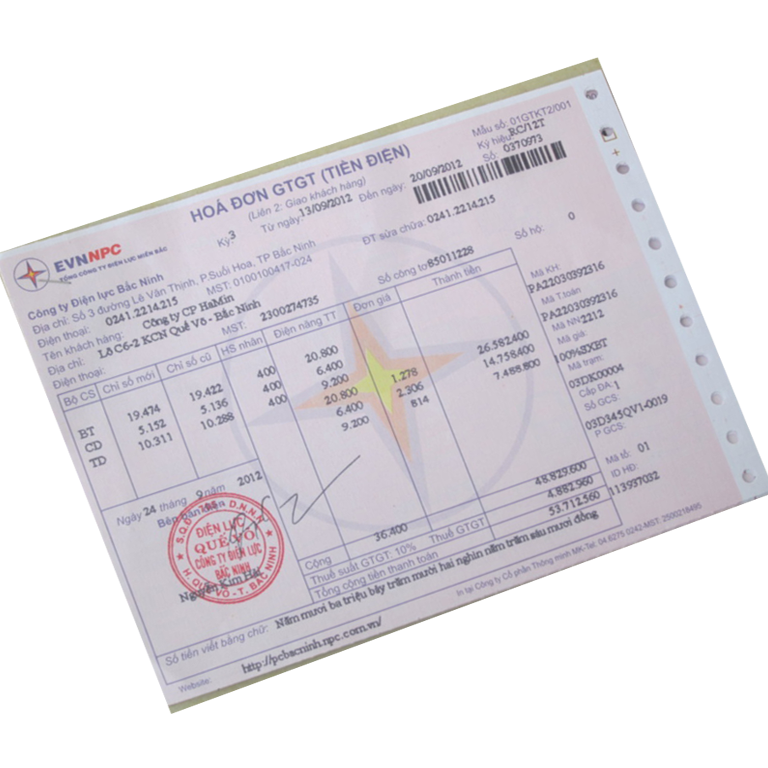
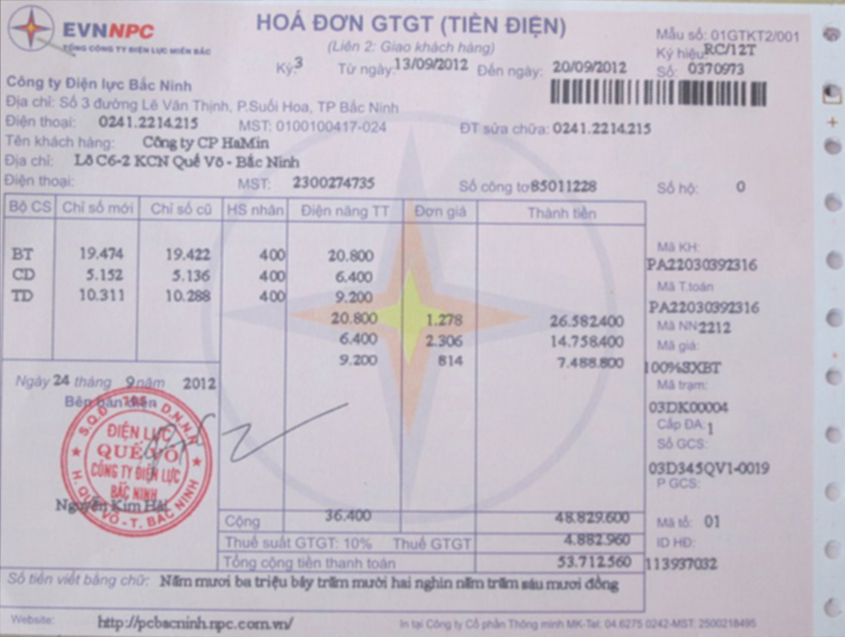
'16032020'

diff --git a/templates/view2.html b/templates/view2.html
@@ -1,8 +1,6 @@
 <!DOCTYPE html>
 <html>
 <head>
-  <meta http-equiv="Cache-control" content="no-cache">
-  <meta http-equiv="Expires" content="-1">
 </head>
 <title>Flask image2text</title>
 <body>
@@ -254,7 +252,7 @@ function showRectnamed(){
 
 function postRecognizeAllRectangles(){
   if (rectangles.length == 0){
-      alert('Select config file!')
+      alert('Chọn mẫu trước!')
   }
   else{
       document.getElementById("btn_recognition_all_rect").value = "Đang xử lý"
@@ -281,6 +279,42 @@ function postRecognizeAllRectangles(){
           else {console.log("server ocr error!")}
           }});
   }
+}
+
+function postAlignImage(cf_filename){
+  console.log(cf_filename)
+  $.ajax({
+    type: "POST",
+    url: "/post_align_" + cf_filename,
+    contentType: "application/json; charset=utf-8",
+    dataType: "json",
+    success:function (response) {
+        console.log('postAlignImage() successed!:',response)
+        if (response.success == true){
+          //console.log("server align successed!")
+          // console.log(response.rectnames)
+          // console.log(response.rectangles)
+          // console.log(response.scale_img)
+          rectangles = response.rectangles
+          rectnames = response.rectnames
+          scale_img = response.scale_img
+          //window.location.reload(true);
+          //console.log("sadsadsadsa {{ filename }}")
+          //window.location.href = "/post_align_" + cf_filename;
+          //document.getElementById("canvas").style.background = "url('{{ filename }}')";
+          draw()
+          //clearAllRectname()
+          //showConfig()
+          // addManyRectname()
+          // drawWithText(response.data)
+          // document.getElementById("btn_recognition_all_rect").value = "Nhận dạng"
+          // for (var n=0; n< rectangles.length; ++n){
+          //   document.getElementById("rect_text"+parseInt(n+1)).innerHTML = "<span style='color:gold; word-break: break-all;'> "+response.data[n] + " </span>"
+          //   }
+
+          }
+        else {console.log("server align error!")}
+        }});
 }
 
 function checkSelectImageFile(){
@@ -318,18 +352,15 @@ function showListConfigFiles(){
     var cf_img = document.createElement('a')
     cf_img.id = "cf_img"
     cf_img.innerHTML = "<img src='static/mau/"+list_config_files[i]+".png' height='62'>"
-    //cf_img.href = "selectconfigandalign_" + list_config_files[i]
-    //cf_img.style = "margin-bottom:17px;"
     
     var cf_name = document.createElement('h5')
     cf_name.innerHTML = list_config_files[i]
-    //cf_name.style = "position: absolute;"
     
     document.getElementById('cf_divcard'+i).appendChild(cf_img)
     document.getElementById('cf_divcard'+i).appendChild(cf_name)
 
     $("#cf_divcard"+i).hover(function(){
-      console.log(parseInt(String(this.id).slice(10,String(this.id).length+1)))
+      //console.log(parseInt(String(this.id).slice(10,String(this.id).length+1)))
       var index = parseInt(String(this.id).slice(10,String(this.id).length+1))
       $(this).css("background-color", "darkseagreen");
       },function(){
@@ -338,6 +369,8 @@ function showListConfigFiles(){
     $("#cf_divcard"+i).click(function(){
       var index = parseInt(String(this.id).slice(10,String(this.id).length+1))
       window.location.href = "selectconfigandalign_" + list_config_files[index]
+      //console.log(index)
+      //postAlignImage(list_config_files[index])
     });
   }
 }
@@ -397,7 +430,6 @@ function showListConfigFiles(){
         <h4>Bước 2: Chọn mẫu sau đó ấn "Ctrl + F5" để xem thay đổi</h4>
         <!-- <div class="h5" style="margin-bottom: 10px;">Chọn mẫu:</div> -->
         <div id="list_config" ></div>
-        <button class="btn_custom" onClick="javascript:setTimeout(function(){window.location.reload();});">OK</button>
       </div>
       <!-- <p><button class="btn_custom" onclick="window.location.href = '/preprocess_image';">Xử lý ảnh(Ctrl+F5)</button></p> -->
       <!-- <p><button id="show_config" onclick="javascript:showConfig()">Hiện khung</button></p> -->

diff --git a/flask_image2text.py b/flask_image2text.py
@@ -10,10 +10,10 @@ import numpy as np
 
 app = Flask(__name__)
 
-
 @app.route('/',methods=['GET'])
 def selectPageMode():
     return render_template('select_mode.html')
+
 @app.route('/index',methods=['GET'])
 def index():
     filename = ''
@@ -303,8 +303,37 @@ def selectConfigAndAlign(config_filename):
     image_confile_filename = 'static/mau/' + json_config_name.replace('.json','') + '.png'
 
     _ = alignFile(image_confile_filename, image_process_filename)
-
+    #print(a)
     return render_template('view2.html', filename = session['filename2'], list_config_files = session['list_config_files'], config_filename = session['config_filename2'], rectnames = rectnames, rectangles = rectangles, scale_img=scale_img)
+
+@app.route('/post_align_<string:config_filename>',methods=["POST","GET"])
+def postConfigAndAlign(config_filename):
+    if 'filename2' not in session:
+        return index2()
+    session['config_filename2'] = config_filename
+    config = []
+    rectnames = []
+    rectangles = []
+    scale_img = 0.0
+    with open('static/mau/' + config_filename + '.json') as f:
+        config = json.load(f)
+        scale_img = float(config['scale_img'])
+        for rect in config['rectangles']:
+            rectnames.append(rect['rectname'])
+            rectangles.append(rect['rectangle'])
+
+    image_process_filename = session['filename2']
+    json_config_name = session['config_filename2']
+    image_config_filename = 'static/mau/' + json_config_name.replace('.json','') + '.png'
+
+    a = alignFile(image_config_filename, image_process_filename)
+    session['filename2'] = a
+    #print(a)
+    resp = jsonify(success=True, rectnames=rectnames, rectangles=rectangles, scale_img=scale_img)
+    if request.method == "POST":
+        return resp
+    if request.method == "GET":
+        return render_template('view2.html', filename = session['filename2'], list_config_files = session['list_config_files'], config_filename = session['config_filename2'], rectnames = rectnames, rectangles = rectangles, scale_img=scale_img)
 
 def unsharp_mask(image, kernel_size=(5, 5), sigma=1.0, amount=1.0, threshold=0):
     """Return a sharpened version of the image, using an unsharp mask."""
@@ -380,5 +409,5 @@ def preprocessImage():
 if __name__ == '__main__':
     app.secret_key = 'dangvansam'
     #app.config['TEMPLATES_AUTO_RELOAD'] = True
-    #app.run(debug=True)
-    app.run(debug=True, host="192.168.2.26", port=4040)
+    app.run(debug=True)
+    #app.run(debug=True, host="192.168.2.26", port=4040)

diff --git a/preprocess_image.py b/preprocess_image.py
@@ -1,4 +1,3 @@
-from __future__ import print_function
 import cv2
 import numpy as np
  
@@ -47,43 +46,18 @@ def alignImages(im1, im2):
 
   # Use homography
   height, width, channels = im2.shape
-  try:
-    im1Reg = cv2.warpPerspective(im1, h, (width, height))
-  except:
-    print('No transform apply!!!')
-    im1Reg = im1
+
+  im1Reg = cv2.warpPerspective(im1, h, (width, height))
+
   return im1Reg, h
  
 def alignFile(filename1, filename2):
-  #print(filename2)
+  #print(filename1, filename2)
   imReference = cv2.imread(filename1, cv2.COLOR_BGR2RGB)
   im = cv2.imread(filename2, cv2.COLOR_BGR2RGB)
   imReg, h = alignImages(im, imReference)
+  #cv2.imshow("aaa",imReg)
+  #cv2.waitKey()
   outFilename = filename2#.replace('.png','_align.png')
   cv2.imwrite(outFilename, imReg)
   return outFilename
-
-# if __name__ == '__main__':
-   
-#   # Read reference image
-#   refFilename = "hoadon2/Hoadontiendien.jpg"
-#   print("Reading reference image : ", refFilename)
-#   imReference = cv2.imread(refFilename, cv2.IMREAD_COLOR)
- 
-#   # Read image to be aligned
-#   imFilename = "hoadon2/Hoadontiendien-a.jpg"
-#   print("Reading image to align : ", imFilename);  
-#   im = cv2.imread(imFilename, cv2.IMREAD_COLOR)
-   
-#   print("Aligning images ...")
-#   # Registered image will be resotred in imReg. 
-#   # The estimated homography will be stored in h. 
-#   imReg, h = alignImages(im, imReference)
-   
-#   # Write aligned image to disk. 
-#   outFilename = "hoadon2/align-a.jpg"
-#   print("Saving aligned image : ", outFilename); 
-#   cv2.imwrite(outFilename, imReg)
- 
-#   # Print estimated homography
-#   print("Estimated homography : \n",  h)

diff --git a/README.md b/README.md
@@ -1,2 +1,9 @@
-# nhandanghoadon
-image to text tesseract and flask server
+# flask image2text
+**image to text east + tesseract and flask server**
+python flask_image2text.py
+
+![alt text](eastdetect.PNG)
+![alt text](sudungmau.PNG)
+![alt text](eastdetect2.PNG)
+
+
